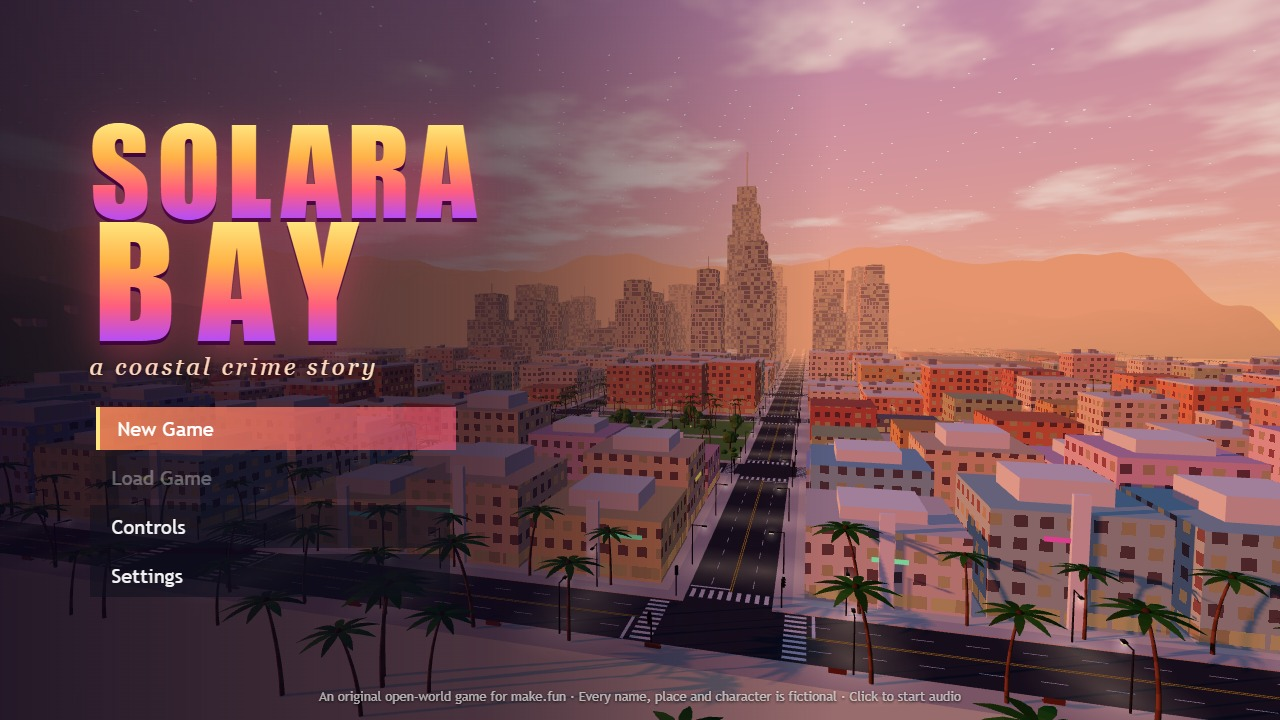
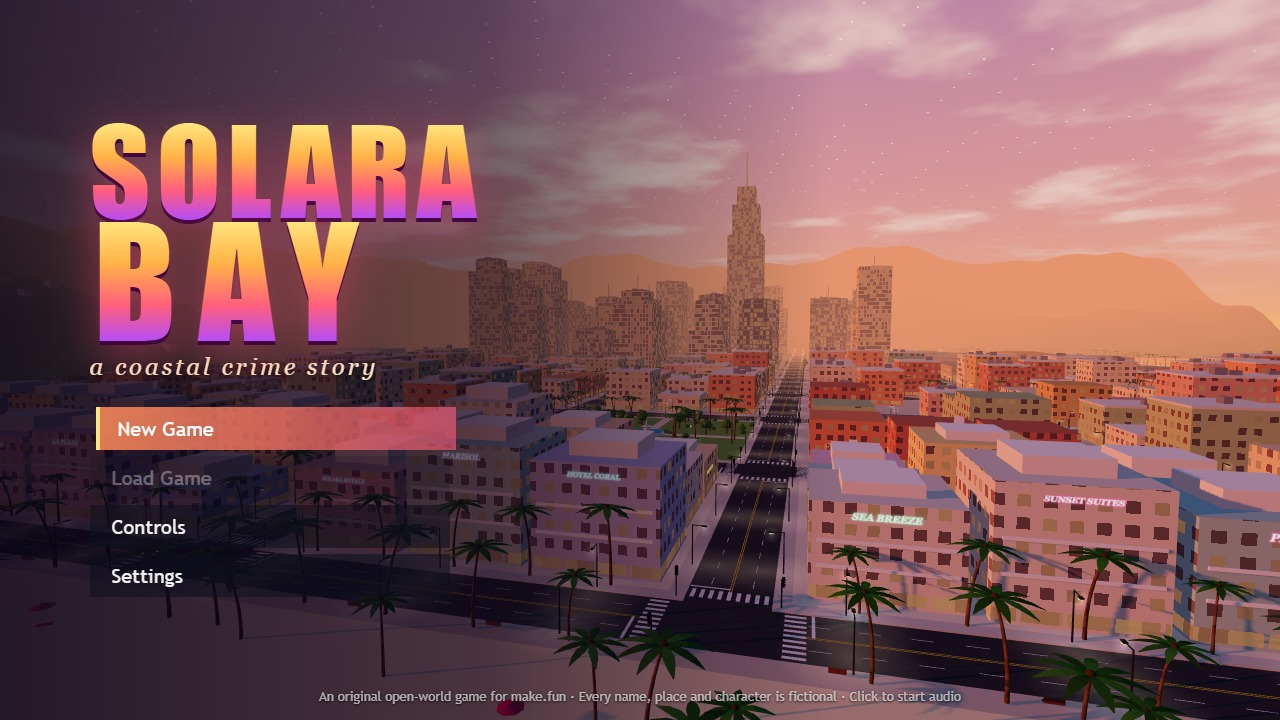
Neon hotel signs on Ocean Drive, invert-Y setting, refreshed screenshots

diff --git a/game/src/world/buildingGenerator.js b/game/src/world/buildingGenerator.js
@@ -47,6 +47,7 @@ export function generateBuildings(blocks, rng) {
     pools: [],
     parks: [],
     neon: [],
+    neonSigns: [],
     houseYards: [],
     signs: [],
   };
@@ -153,7 +154,12 @@ function buildDeco(block, out, palette, h, rng) {
       pushBox(out.plain, cx, cz, w * 0.55, d * 0.55, rng.range(2, 4), 0xfaf7f0, height, false);
       const faceZ = iz === 2 ? 1 : iz === 0 ? -1 : 0;
       const faceX = ix === 2 ? 1 : ix === 0 ? -1 : 0;
-      if (faceZ !== 0 && rng.chance(0.7)) {
+      if (faceZ === 1 && height > 11) {
+        // Hotels on Ocean Drive carry their name in neon on the street front.
+        out.neonSigns.push({ text: HOTEL_NAMES[out.neonSigns.length % HOTEL_NAMES.length], x: cx, y: height - 2.2, z: cz + d / 2 + 0.12, w: Math.min(w - 2, 11), h: 2.2, rotY: 0, color: rng.pick(NEON_SIGN_COLORS) });
+        pushBox(out.plain, cx, cz + d / 2 + 0.3, w * 0.9, 0.35, 0.5, 0xffffff, height * 0.35, false);
+        pushBox(out.plain, cx, cz + d / 2 + 0.3, w * 0.9, 0.35, 0.5, 0xffffff, height * 0.6, false);
+      } else if (faceZ !== 0 && rng.chance(0.7)) {
         pushBox(out.plain, cx, cz + faceZ * (d / 2 + 0.4), 2.2, 0.8, height + 3, 0xffffff, 0, false);
         out.neon.push({ x: cx + rng.range(-w / 4, w / 4), y: height * rng.range(0.55, 0.85), z: cz + faceZ * (d / 2 + 0.25), w: rng.range(5, 9), h: 0.7, axis: 'x', color: rng.pick([0xff4fa0, 0x3ff0ff, 0xffd23f, 0x9d6bff, 0x56ff9b]) });
       } else if (faceX !== 0 && rng.chance(0.5)) {
@@ -181,6 +187,9 @@ function buildMidrise(block, out, palette, h, rng) {
     }
   }
 }
+
+const HOTEL_NAMES = ['HOTEL CORAL', 'SEA BREEZE', 'SUNSET SUITES', 'PALMERA', 'THE TIDE', 'CASA DEL MAR', 'AURORA', 'PELICAN INN', 'NEON PALMS', 'LA PLAYA', 'SOLARA ROYALE', 'MARISOL'];
+const NEON_SIGN_COLORS = ['#ff4fa0', '#3ff0ff', '#ffd23f', '#b98bff', '#56ff9b'];
 
 const ROOF_COLORS = [0xb5573b, 0xa4472f, 0x6f6a66, 0xc4693e, 0x8a4a3a];
 

diff --git a/game/src/world/buildingMeshes.js b/game/src/world/buildingMeshes.js
@@ -112,9 +112,44 @@ export function buildBuildingMeshes(scene, generated, collision) {
     scene.add(mesh);
   }
 
-  // Painted signs for named places.
+  // Painted signs for named places, glowing neon names on the hotels.
   for (const s of generated.signs) addSign(scene, s);
+  for (const s of generated.neonSigns) addNeonSign(scene, s);
   return meshes;
+}
+
+/** A neon script sign: glowing outlined letters that brighten after sunset. */
+function addNeonSign(scene, s) {
+  const canvas = document.createElement('canvas');
+  canvas.width = 512;
+  canvas.height = 112;
+  const ctx = canvas.getContext('2d');
+  ctx.font = 'italic bold 70px Georgia, "Times New Roman", serif';
+  ctx.textAlign = 'center';
+  ctx.textBaseline = 'middle';
+  let size = 70;
+  while (ctx.measureText(s.text).width > 480 && size > 20) {
+    size -= 4;
+    ctx.font = `italic bold ${size}px Georgia, "Times New Roman", serif`;
+  }
+  ctx.shadowColor = s.color;
+  ctx.shadowBlur = 18;
+  ctx.lineWidth = 5;
+  ctx.strokeStyle = s.color;
+  ctx.strokeText(s.text, 256, 58);
+  ctx.shadowBlur = 6;
+  ctx.fillStyle = '#ffffff';
+  ctx.fillText(s.text, 256, 58);
+  const texture = new THREE.CanvasTexture(canvas);
+  texture.colorSpace = THREE.SRGBColorSpace;
+  const material = createNightGlowMaterial(0xffffff, { dayLevel: 0.75 });
+  material.map = texture;
+  material.transparent = true;
+  material.depthWrite = false;
+  const mesh = new THREE.Mesh(new THREE.PlaneGeometry(s.w, s.w * (112 / 512)), material);
+  mesh.position.set(s.x, s.y, s.z);
+  mesh.rotation.y = s.rotY;
+  scene.add(mesh);
 }
 
 /** A flat sign board with text, facing rotY (0 = facing +z). */

diff --git a/game/src/ui/menus.js b/game/src/ui/menus.js
@@ -208,6 +208,9 @@ export function createMenus(game, root, handlers) {
         slider('Mouse sensitivity', 'sensitivity', 0.3, 2.5, 0.05, () => {
           game.cameraCtl.state.sensitivity = s.sensitivity;
         });
+        choice('Invert mouse Y', 'invertY', [[false, 'Off'], [true, 'On']], () => {
+          game.cameraCtl.state.invertY = s.invertY;
+        });
         choice('Shadows', 'shadows', [[true, 'On'], [false, 'Off']], () => game.gfx.setShadows(s.shadows));
         choice('Traffic', 'trafficDensity', [[0.5, 'Light'], [1, 'Normal'], [1.3, 'Heavy']]);
         choice('Pedestrians', 'pedDensity', [[0.5, 'Few'], [1, 'Normal'], [1.3, 'Crowded']]);

diff --git a/game/src/core/game.js b/game/src/core/game.js
@@ -75,6 +75,7 @@ export function createGame(canvas, uiRoot) {
   gfx.scene.add(game.player.group);
   game.cameraCtl = createCameraController(gfx.camera, city.collision);
   game.cameraCtl.state.sensitivity = settings.sensitivity;
+  game.cameraCtl.state.invertY = settings.invertY;
   game.vehicleSystem = createVehicleSystem(game);
   game.pedSystem = createPedestrianSystem(game);
   game.traffic = createTrafficSystem(game);

diff --git a/game/src/systems/cameraController.js b/game/src/systems/cameraController.js
@@ -25,7 +25,7 @@ export function createCameraController(camera, collision) {
   function look(dx, dy) {
     const s = 0.0024 * state.sensitivity;
     state.yaw -= dx * s;
-    state.pitch = clamp(state.pitch + dy * s, -0.55, 1.2);
+    state.pitch = clamp(state.pitch + dy * s * (state.invertY ? -1 : 1), -0.55, 1.2);
     if (Math.abs(dx) + Math.abs(dy) > 0.5) state.idleTime = 0;
   }
 
